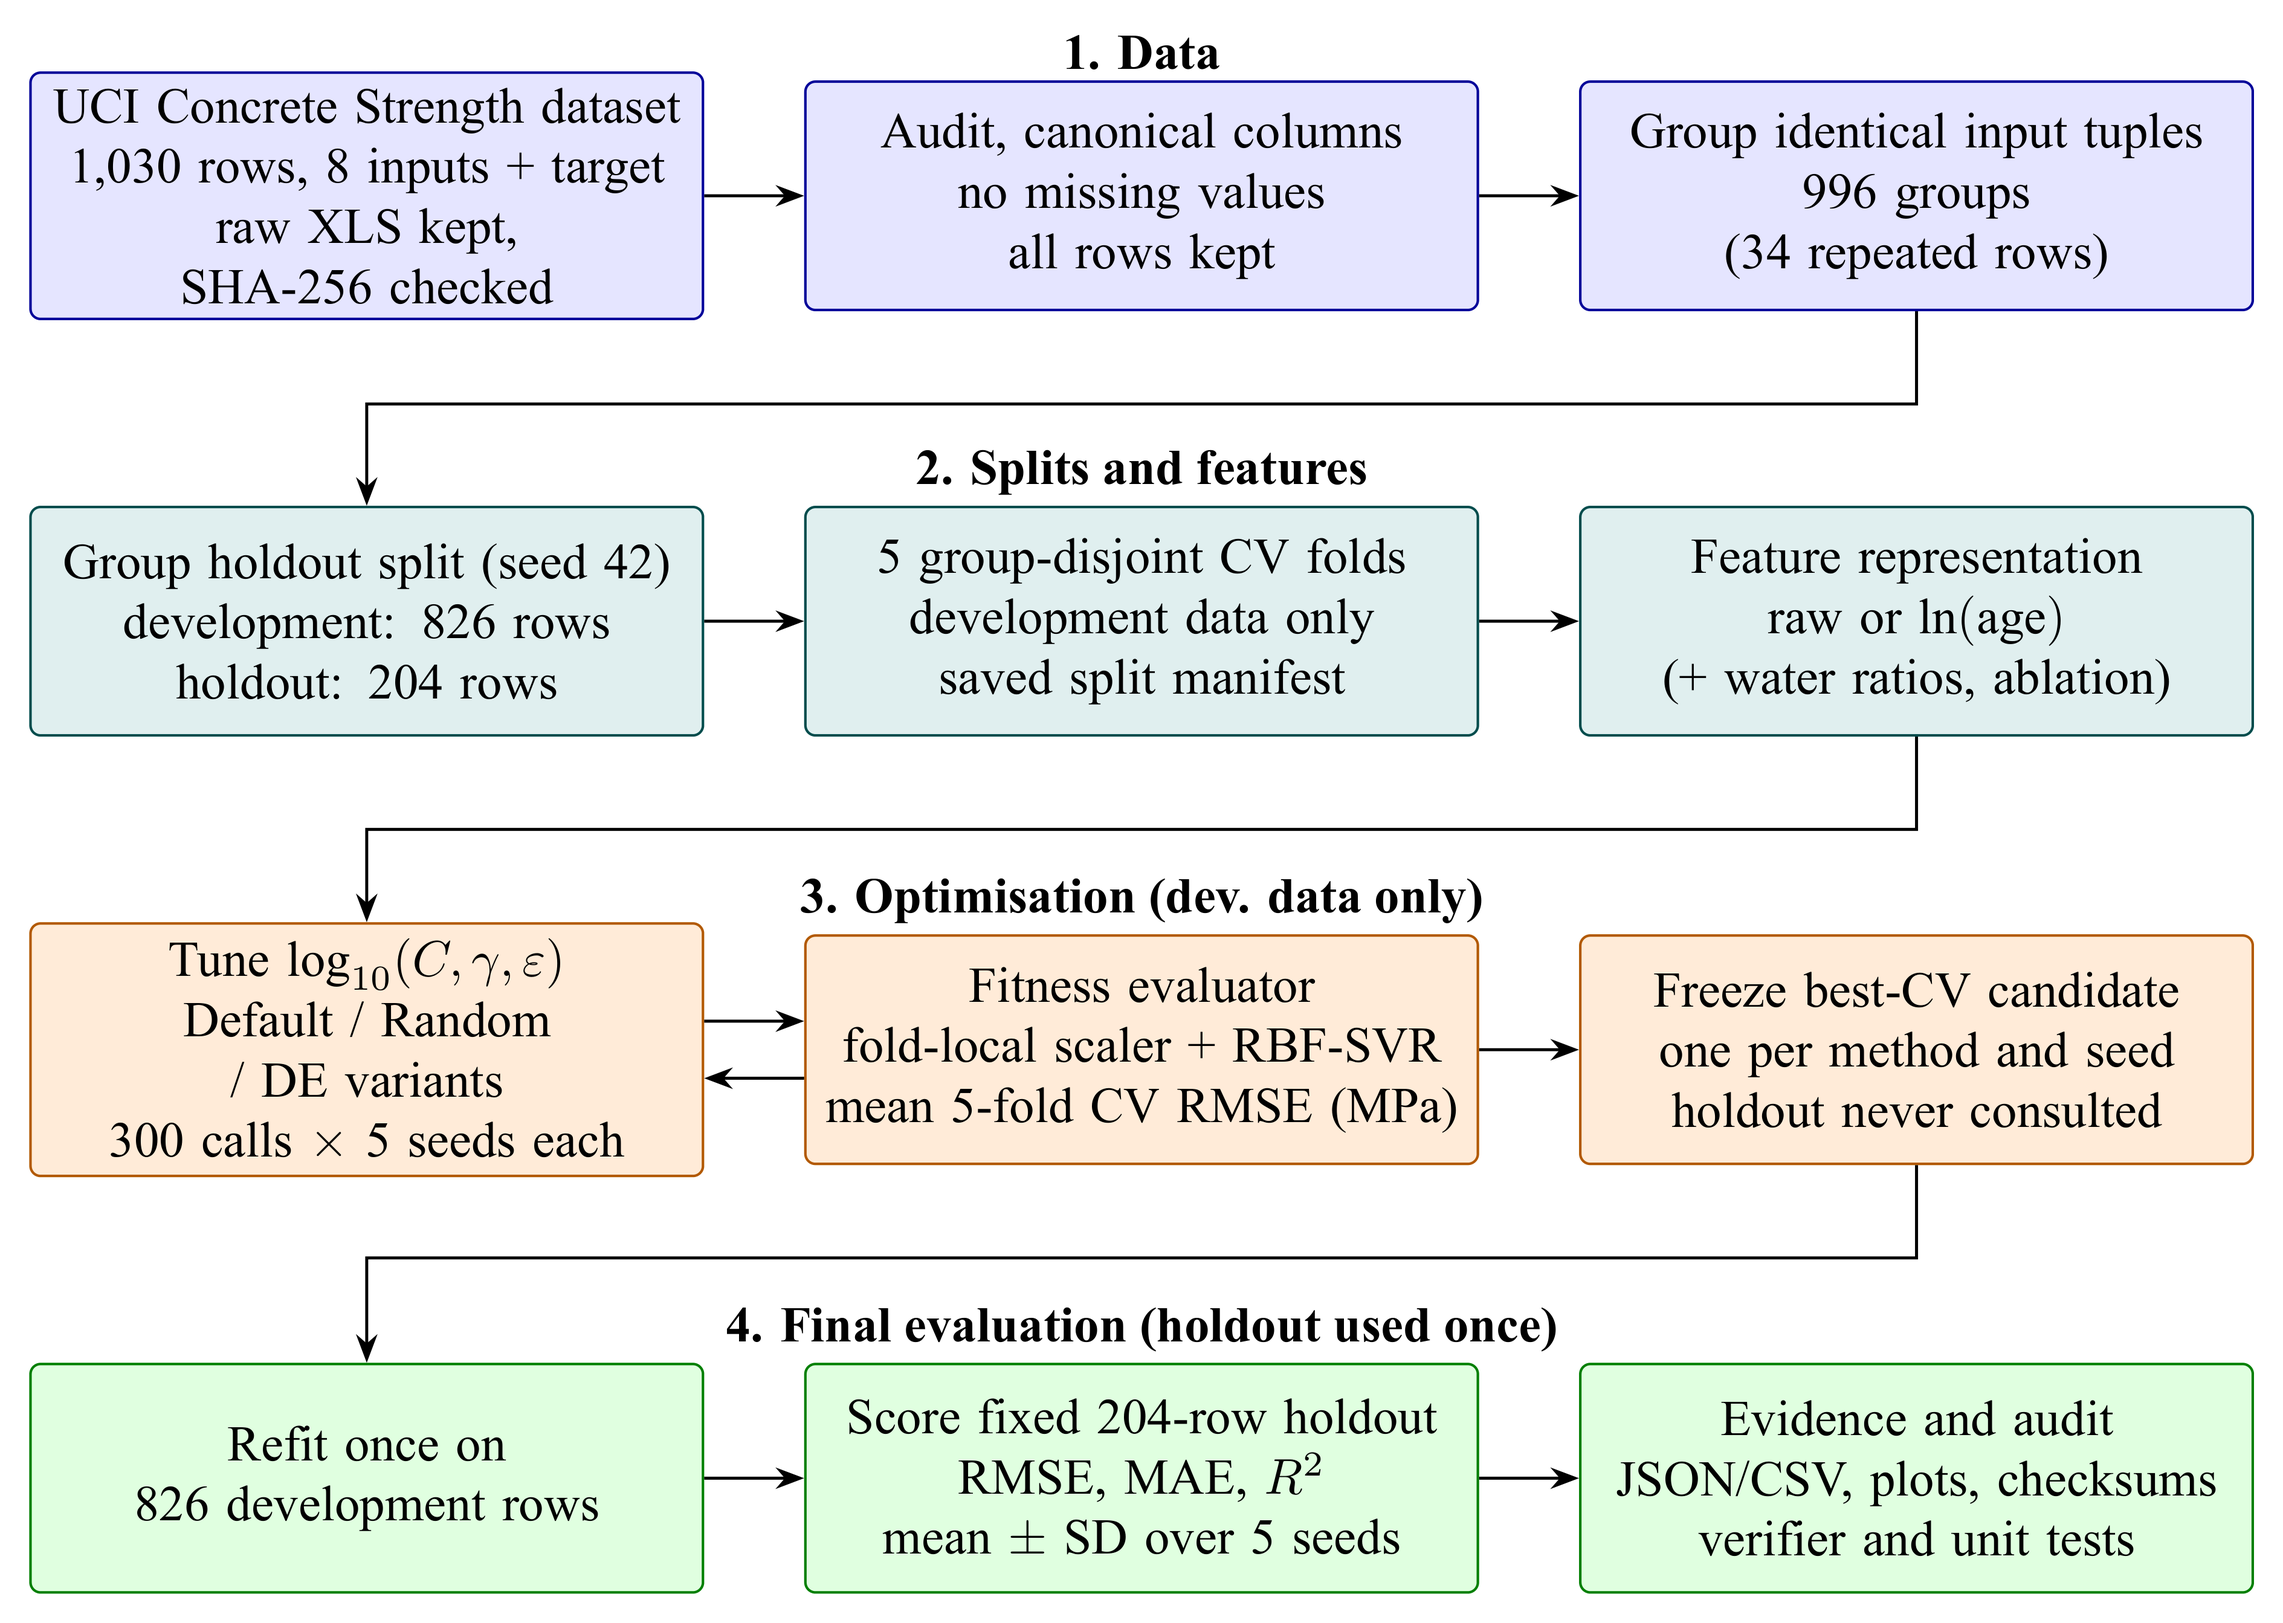
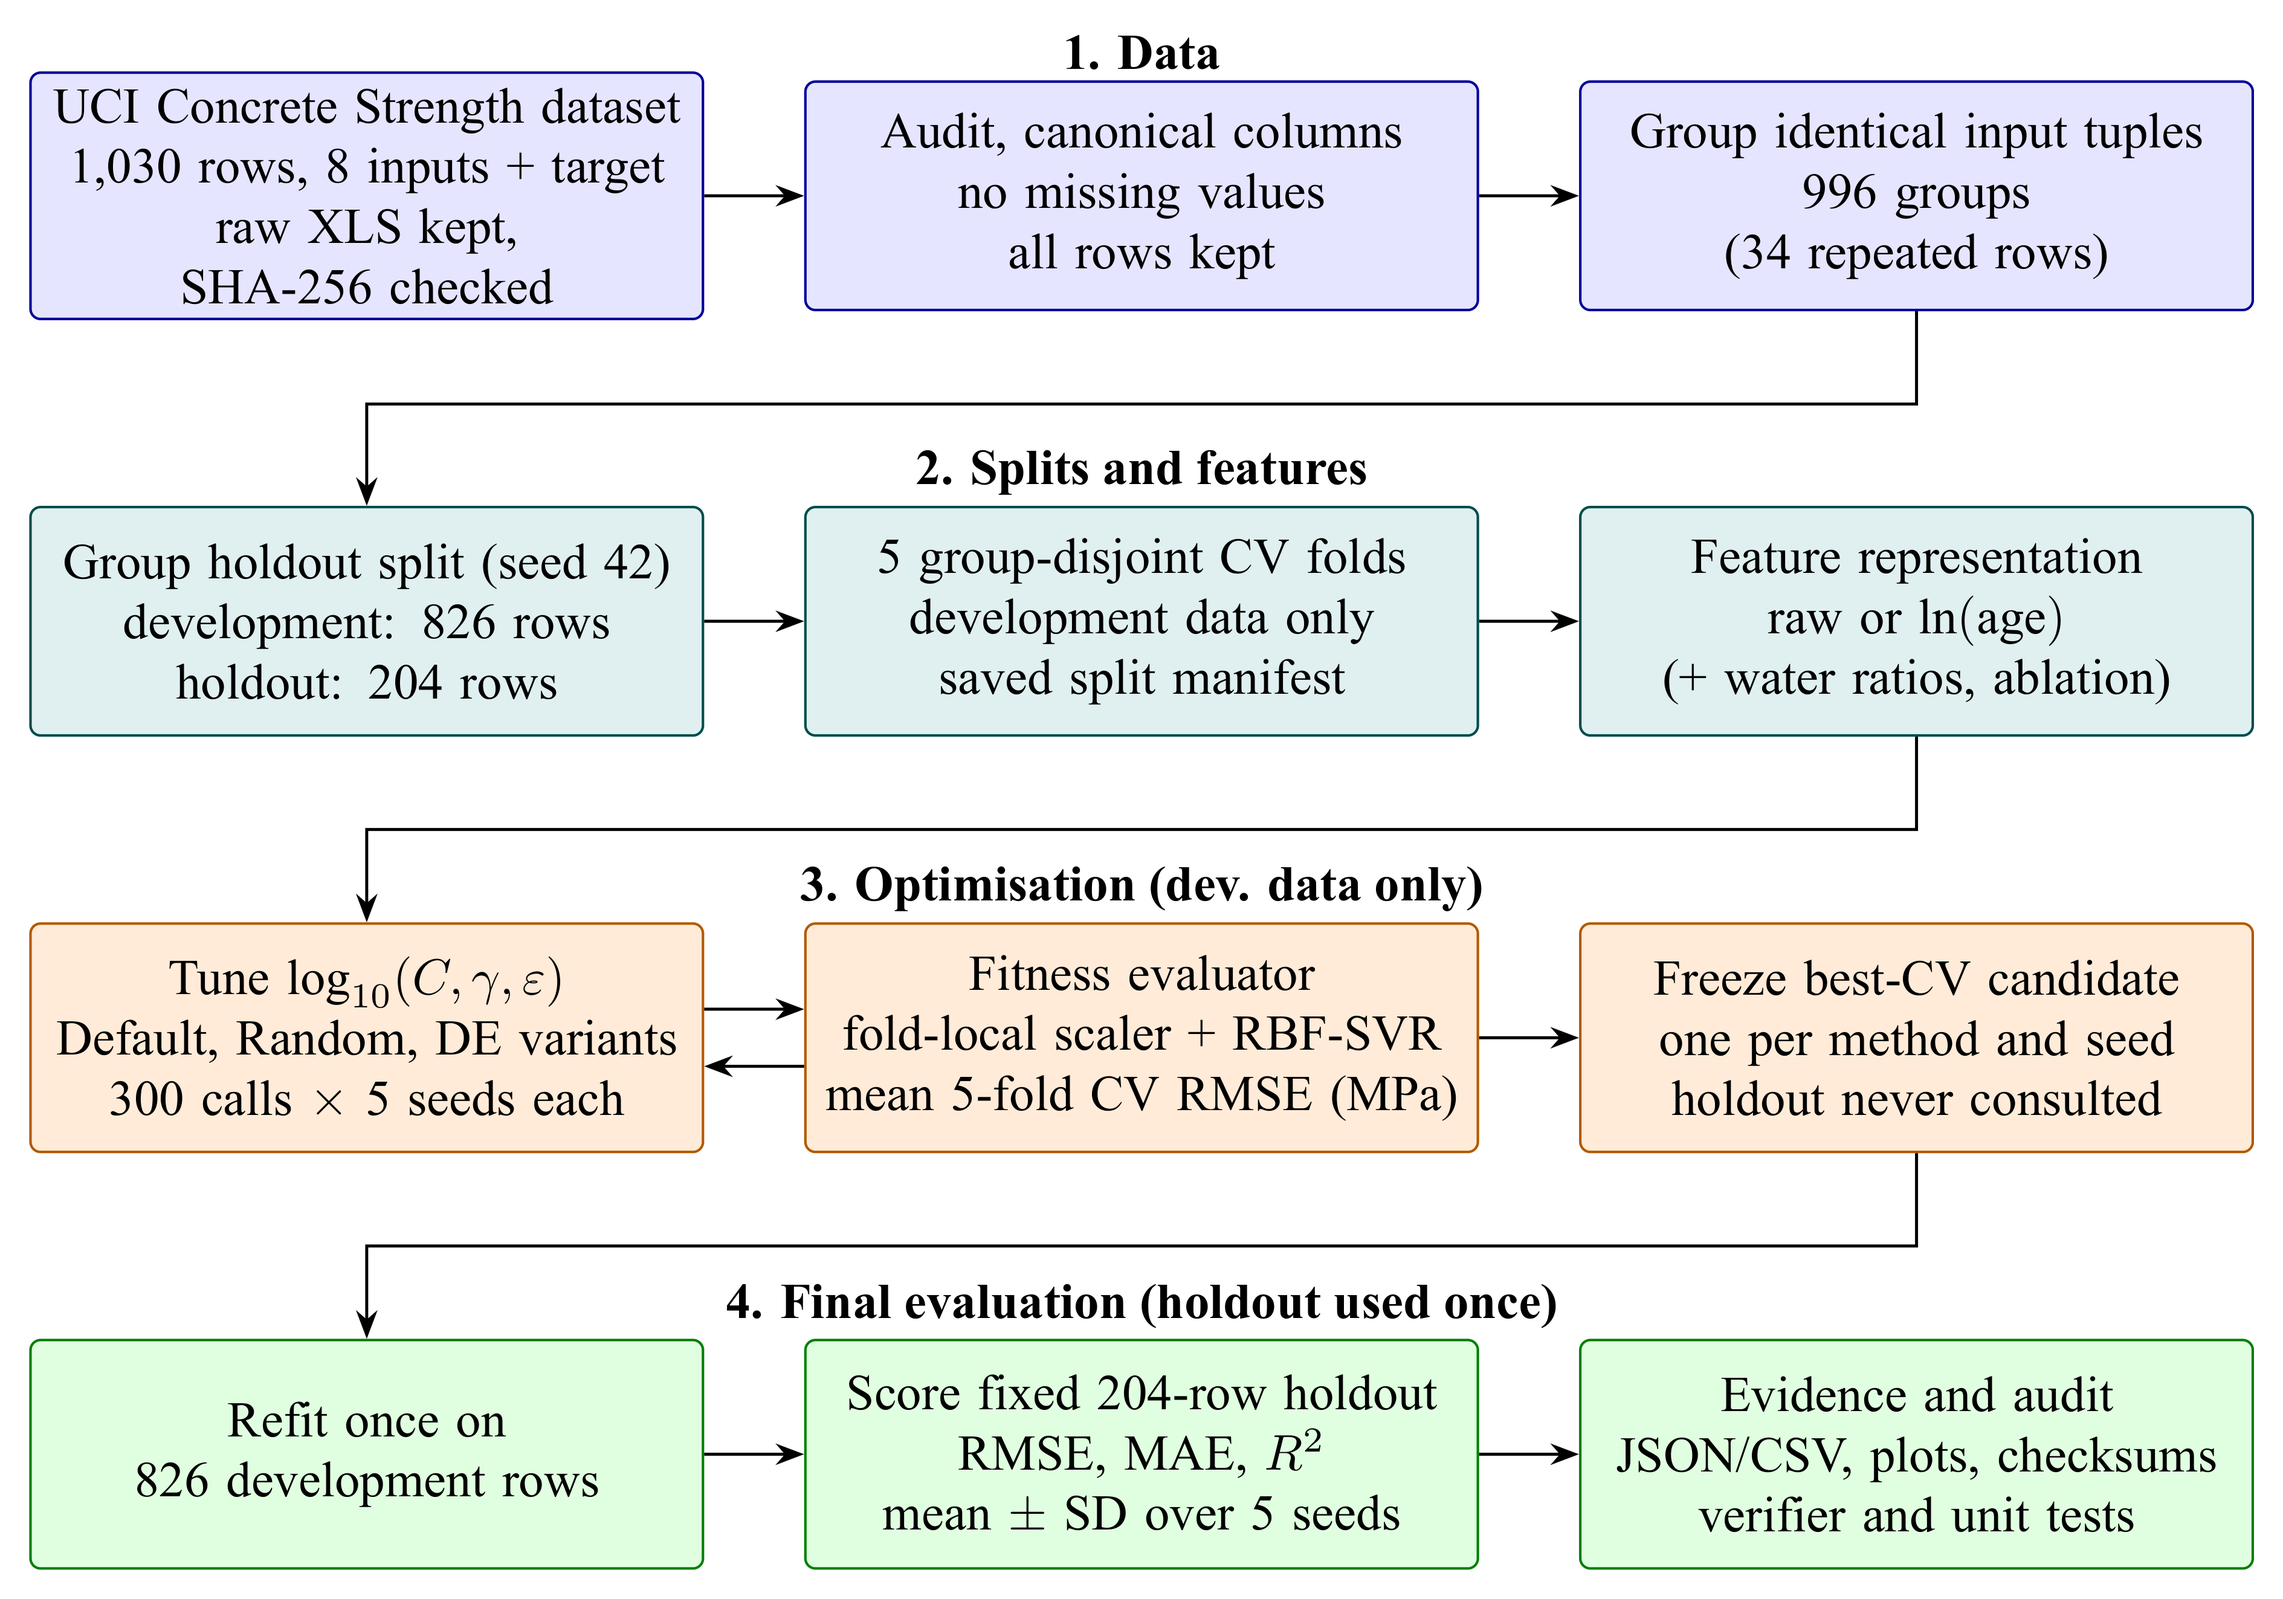
docs: integrate diagrams and evidence charts into report

diff --git a/report/chapters/05-methodology-implementation.tex b/report/chapters/05-methodology-implementation.tex
@@ -3,6 +3,7 @@
 The pipeline consists of raw-data validation, deterministic group assignment, split-manifest creation, development-only search, fixed-candidate refitting and holdout evaluation. Results are written as structured evidence rather than transcribed from console output. The same evaluator is used by both tuned methods, so preprocessing and fitness definitions remain consistent.
 
 The main modules are \texttt{data.py} for ingestion and grouping, \texttt{evaluation.py} for fitting and scoring, \texttt{search.py} for Random Search, \texttt{de.py} for DE operators, and \texttt{stage3.py} for finalization and diagnostics. Verification logic audits saved records separately from optimization.
+\begin{figure}[htbp]\centering\resizebox{\textwidth}{!}{\input{figures/architecture.tex}}\caption{End-to-end architecture: data, preprocessing and splits, matched-budget optimisation on development data, and a single holdout evaluation with an audited evidence package.}\label{fig:architecture}\end{figure}
 \section{Data Collection}
 The dataset is the original UCI Concrete Compressive Strength spreadsheet and its readme \cite{uci}. Raw files and the downloaded archive are retained unchanged. The data are not scraped from a live service and are not augmented with another dataset. Source attribution includes both the UCI dataset DOI and Yeh's original publication. Table~\ref{tab:variables} lists the variables and units.
 
@@ -11,6 +12,9 @@ The dataset is the original UCI Concrete Compressive Strength spreadsheet and it
 The spreadsheet headers are mapped explicitly to canonical columns. The expected schema contains eight predictors and one target. Missing values are checked before splitting; no imputation is needed. All 1,030 rows are retained. There are 996 unique complete input tuples, so 34 rows repeat an existing eight-feature combination.
 
 Rows with the same complete input tuple share a group. GroupShuffleSplit with seed 42 reserves 200 groups containing 204 rows for holdout; 796 groups containing 826 rows remain for development. Five GroupKFold splits are fixed inside development data. This isolates identical input tuples across fitting and evaluation boundaries while retaining their observed target values.
+Figure~\ref{fig:eda} shows the development rows. Strength varies widely at every age and the gains flatten at later ages, which is why a logarithmic age axis is used in the extension study (the extension chapter). Figure~\ref{fig:correlation} gives pairwise Pearson correlations on development rows only: cement (0.53), superplasticizer (0.39) and age (0.32) correlate positively with strength and water negatively ($-0.33$). The correlation between $\ln(\text{age})$ and strength is 0.55. These are descriptive linear associations, not feature-importance estimates.
+\begin{figure}[htbp]\centering\includegraphics[width=\textwidth]{assets/eda_age_strength.png}\caption{Strength versus age (log axis) and target distribution for the 826 development rows.}\label{fig:eda}\end{figure}
+\begin{figure}[htbp]\centering\includegraphics[width=0.7\textwidth]{assets/correlation_heatmap.png}\caption{Pearson correlation matrix of the eight inputs and strength, development rows only.}\label{fig:correlation}\end{figure}
 \section{Feature Engineering}
 The model uses the eight original numerical inputs. It does not introduce technical indicators, polynomial interactions, feature selection or target transformations. Standardization is the only learned feature transformation. Keeping the feature representation fixed helps isolate the effect of hyperparameter optimization.
 \section{SVR Model Architecture}
@@ -34,6 +38,8 @@ Population size is 15, mutation weight $F=0.8$, crossover rate $CR=0.9$ and the 
 \EndFor
 \State \Return Candidate with lowest observed development RMSE
 \end{algorithmic}\end{algorithm}
+Figure~\ref{fig:deflow} shows the same procedure as a flowchart, including the two loops (over targets within a generation and over generations until the 300-call budget is spent).
+\begin{figure}[htbp]\centering\resizebox{!}{0.6\textheight}{\input{figures/de-flowchart.tex}}\caption{Flowchart of the budget-controlled DE/rand/1/bin implementation.}\label{fig:deflow}\end{figure}
 \section{Training Procedure}
 For each seed, the optimizer receives the same saved five-fold development splits. The selected candidate minimizes mean fold RMSE. Each selected configuration is then refitted on all 826 development rows and evaluated on the same 204 holdout rows. Five seeds, 11, 22, 33, 44 and 55, are retained for each method.
 

diff --git a/report/chapters/07-results-discussion.tex b/report/chapters/07-results-discussion.tex
@@ -2,6 +2,8 @@
 \section{DE Convergence Analysis}
 Figure~\ref{fig:convergence} shows the saved best-so-far development RMSE histories for both search methods. The horizontal axis counts objective evaluations, including initialization. Curves indicate optimization progress on the fixed development folds, not test accuracy. A lower validation endpoint does not guarantee a lower holdout error on a particular seed.
 \begin{figure}[htbp]\centering\includegraphics[width=\textwidth]{assets/convergence.png}\caption{Development validation convergence at equal candidate budgets.}\label{fig:convergence}\end{figure}
+Figure~\ref{fig:searchspace} pools the 1{,}500 candidates each method evaluated over the five seeds. Random Search samples the box uniformly, so most of its calls fall in poor regions (large CV RMSE). DE concentrates its later calls in a narrow band of large $C$ and moderate $\gamma$, and many DE candidates sit on the upper bound $\log_{10}C=4$ because of coordinate clipping. Concentration does not translate into a meaningful holdout gain here: the good region is wide and flat, so uniform sampling with 300 calls also lands in it.
+\begin{figure}[htbp]\centering\includegraphics[width=\textwidth]{assets/search_space.png}\caption{Candidates evaluated by Random Search and DE, coloured by development CV RMSE (capped at 12 MPa).}\label{fig:searchspace}\end{figure}
 \section{Optimal Hyperparameter Configuration}
 The best observed validation-selected demonstration is DE seed 11, with CV RMSE 5.8601 MPa. The decoded values are $C=1462.1749$, $\gamma=0.0573784$ and $\epsilon=1.3447436$. ``Optimal'' refers to the best observed candidate in this finite search; no proof of a global optimum is implied. Its holdout RMSE is 6.3712 MPa, MAE 4.2896 MPa and $R^2=0.8244$.
 \section{Prediction Performance}

diff --git a/report/figures/architecture.tex b/report/figures/architecture.tex
@@ -19,7 +19,7 @@
 \node[prep, right=of p1] (p2) {5 group-disjoint CV folds\\development data only\\saved split manifest};
 \node[prep, right=of p2] (p3) {Feature representation\\raw or $\ln(\text{age})$\\(+ water ratios, ablation)};
 % Row 3: optimisation
-\node[opt, below=1.3cm of p1] (o1) {Tune $\log_{10}(C,\gamma,\varepsilon)$\\Default / Random / DE variants\\300 calls $\times$ 5 seeds each};
+\node[opt, below=1.3cm of p1] (o1) {Tune $\log_{10}(C,\gamma,\varepsilon)$\\Default, Random, DE variants\\300 calls $\times$ 5 seeds each};
 \node[opt, right=of o1] (o2) {Fitness evaluator\\fold-local scaler + RBF-SVR\\mean 5-fold CV RMSE (MPa)};
 \node[opt, right=of o2] (o3) {Freeze best-CV candidate\\one per method and seed\\holdout never consulted};
 % Row 4: final evaluation

diff --git a/report/main.tex b/report/main.tex
@@ -1,5 +1,6 @@
 \documentclass[12pt,a4paper]{report}
 \usepackage{bmsce}
+\usetikzlibrary{positioning,arrows.meta,fit,backgrounds,calc,shapes.geometric}
 \input{metadata}
 \addbibresource{references.bib}
 \begin{document}
